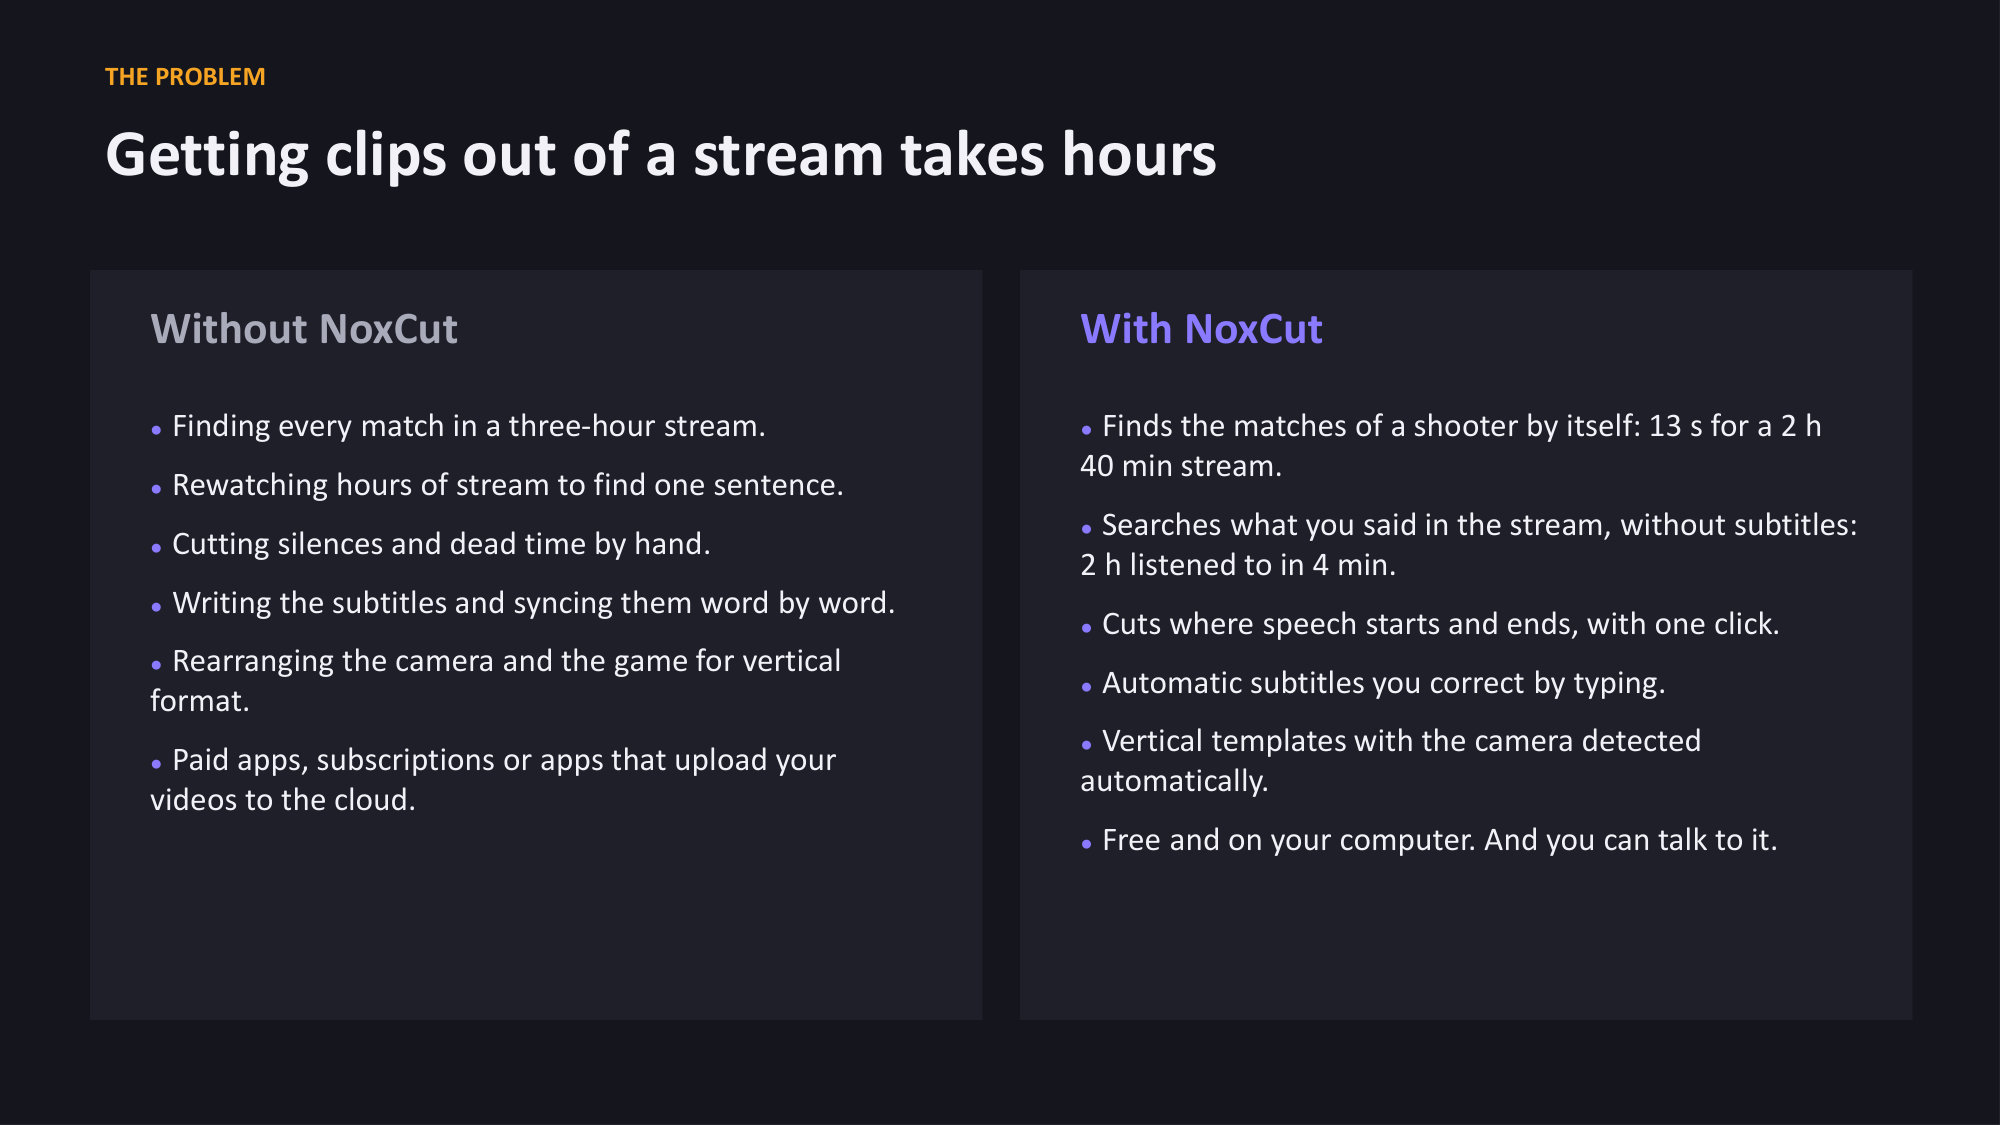
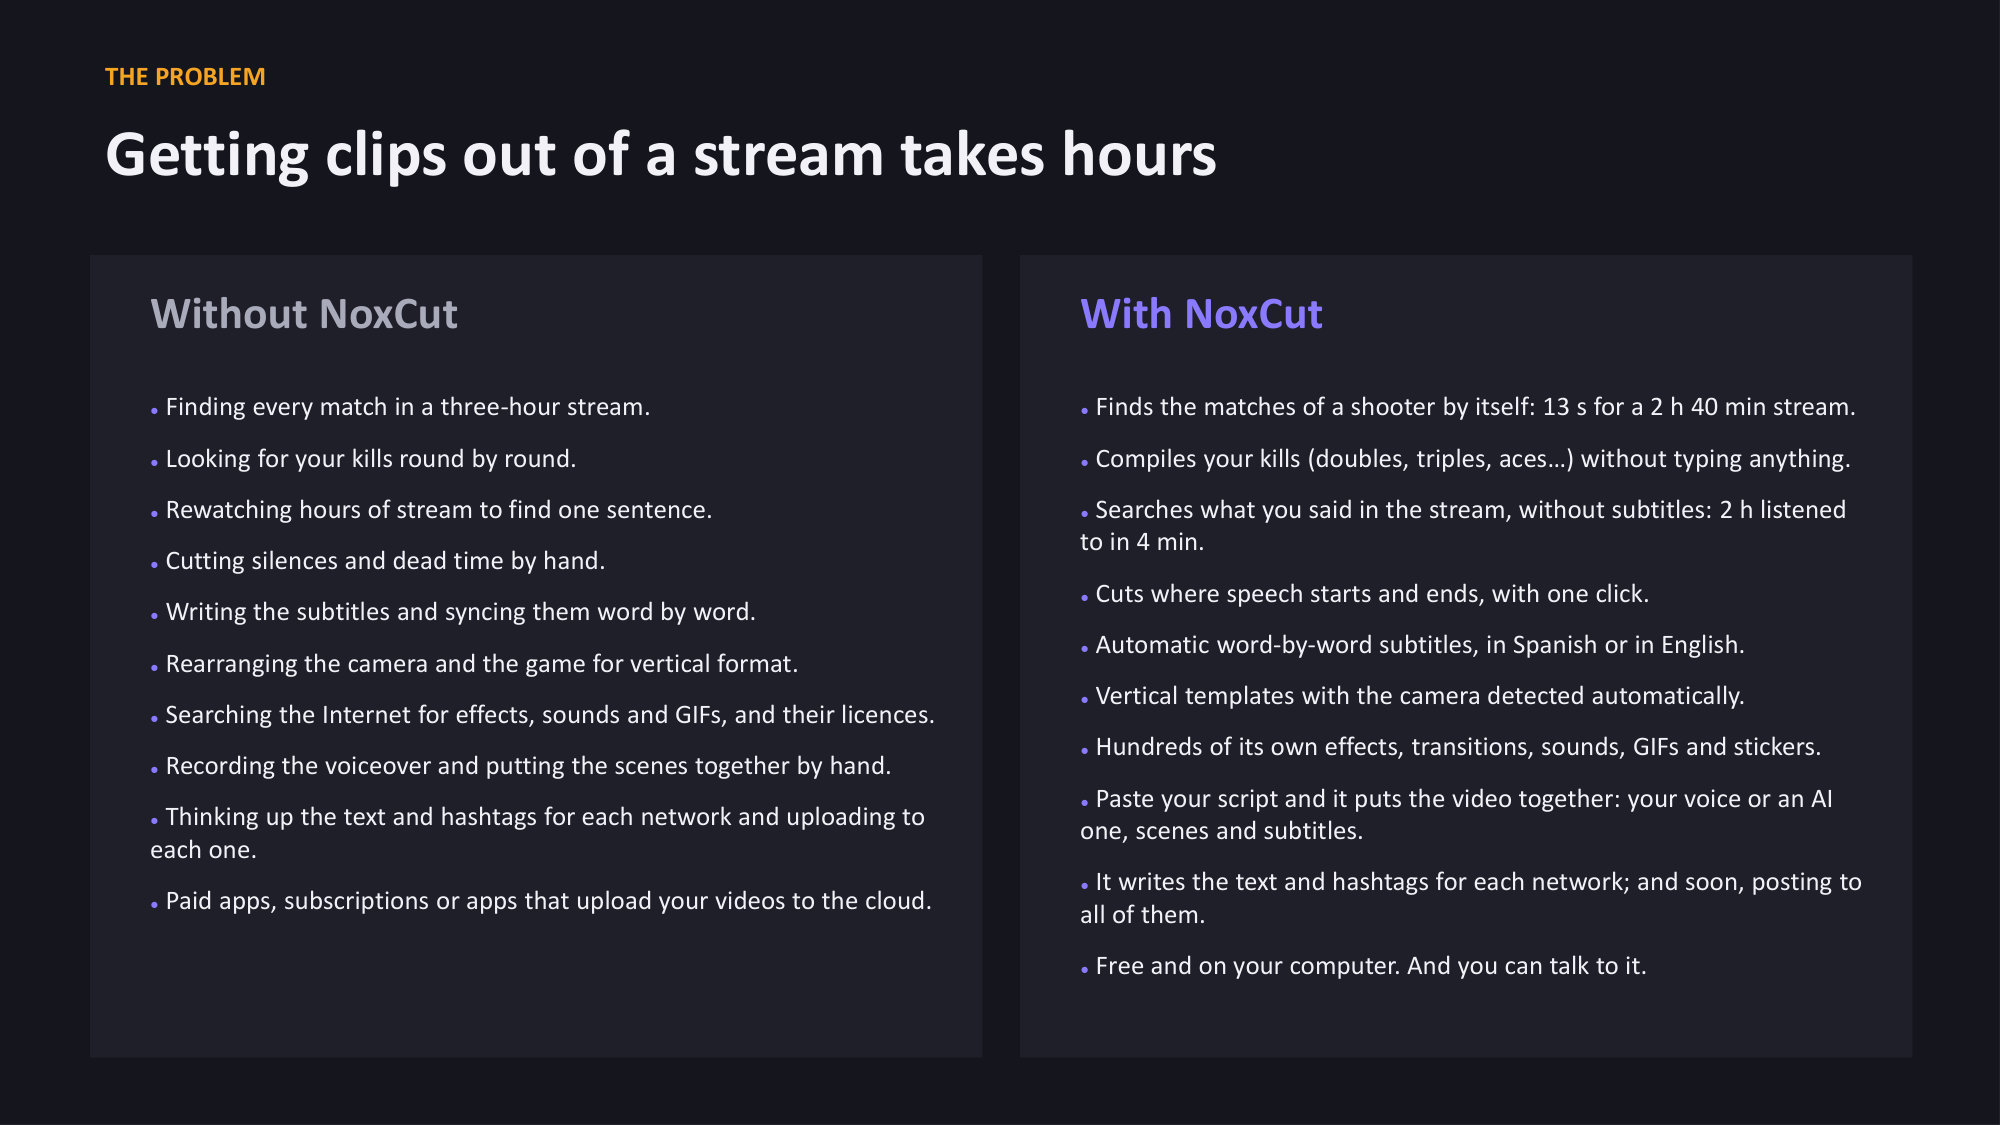
Presentación actualizada (21/11/2026)

diff --git a/presentacion/index.html b/presentacion/index.html
@@ -161,7 +161,7 @@ button:focus-visible { outline: 2px solid var(--amber); outline-offset: 2px; }
 <main>
   <div class="stage" id="stage">
     <img src="diapositivas/01.jpg?v=f4f73acdee" alt="Diapositiva 1: NOXCUT De tu directo a YouTube y TikTok, sin pasarte horas editando Editor de vídeo para creadores, en horizontal o en vertical: subtítulos palabra a palabra, m" class="on">
-    <img src="diapositivas/02.jpg?v=032e63c3a7" alt="Diapositiva 2: EL PROBLEMA Sacar clips de un directo lleva horas Sin NoxCut ●Buscar cada partida en un directo de tres horas. ●Volver a ver horas de directo para encontrar una">
+    <img src="diapositivas/02.jpg?v=8143068672" alt="Diapositiva 2: EL PROBLEMA Sacar clips de un directo lleva horas Sin NoxCut ●Buscar cada partida en un directo de tres horas. ●Buscar tus kills ronda a ronda. ●Volver a ver ho">
     <img src="diapositivas/03.jpg?v=a3dabb390b" alt="Diapositiva 3: EN 3 DIAPOSITIVAS · 1/3 Todo lo que hace Voz Le dices lo que quieres y lo hace delante de ti. Subtítulos Palabra a palabra, karaoke o «pop», con 14 plantillas (">
     <img src="diapositivas/04.jpg?v=aea226915f" alt="Diapositiva 4: EN 3 DIAPOSITIVAS · 2/3 Todo lo que hace (y más) Proyectos Al abrir, todos tus proyectos con su miniatura. Comentarios Manda ideas o fallos con capturas y mira ">
     <img src="diapositivas/05.jpg?v=d42a203b41" alt="Diapositiva 5: EN 3 DIAPOSITIVAS · 3/3 Todo lo que hace (y más) Gráfica Exporta y hace subtítulos con tu gráfica: mucho más rápido. Descripciones Al exportar, el texto de cada">

diff --git a/en/presentacion/index.html b/en/presentacion/index.html
@@ -161,7 +161,7 @@ button:focus-visible { outline: 2px solid var(--amber); outline-offset: 2px; }
 <main>
   <div class="stage" id="stage">
     <img src="diapositivas/01.jpg?v=d3fa5929a3" alt="Slide 1: NOXCUT From your stream to YouTube and TikTok, without hours of editing A video editor for creators, horizontal or vertical: word-by-word subtitles, editing, ef" class="on">
-    <img src="diapositivas/02.jpg?v=4f15d62944" alt="Slide 2: THE PROBLEM Getting clips out of a stream takes hours Without NoxCut ● Finding every match in a three-hour stream. ● Rewatching hours of stream to find one sent">
+    <img src="diapositivas/02.jpg?v=06d87a3dbb" alt="Slide 2: THE PROBLEM Getting clips out of a stream takes hours Without NoxCut ● Finding every match in a three-hour stream. ● Looking for your kills round by round. ● Re">
     <img src="diapositivas/03.jpg?v=b50da7977b" alt="Slide 3: 3 SLIDES · 1/3 Everything it does Voice You tell it what you want and it does it in front of you. Subtitles Word by word, karaoke or “pop”, with 14 templates (s">
     <img src="diapositivas/04.jpg?v=6fcf0ba93e" alt="Slide 4: 3 SLIDES · 2/3 Everything it does (and more) Projects When it opens, all your projects with their thumbnails. Feedback Send ideas or bugs with screenshots and f">
     <img src="diapositivas/05.jpg?v=d82f48a308" alt="Slide 5: 3 SLIDES · 3/3 Everything it does (and more) Graphics card Exports and makes subtitles with your graphics card: much faster. Descriptions When exporting, the te">
